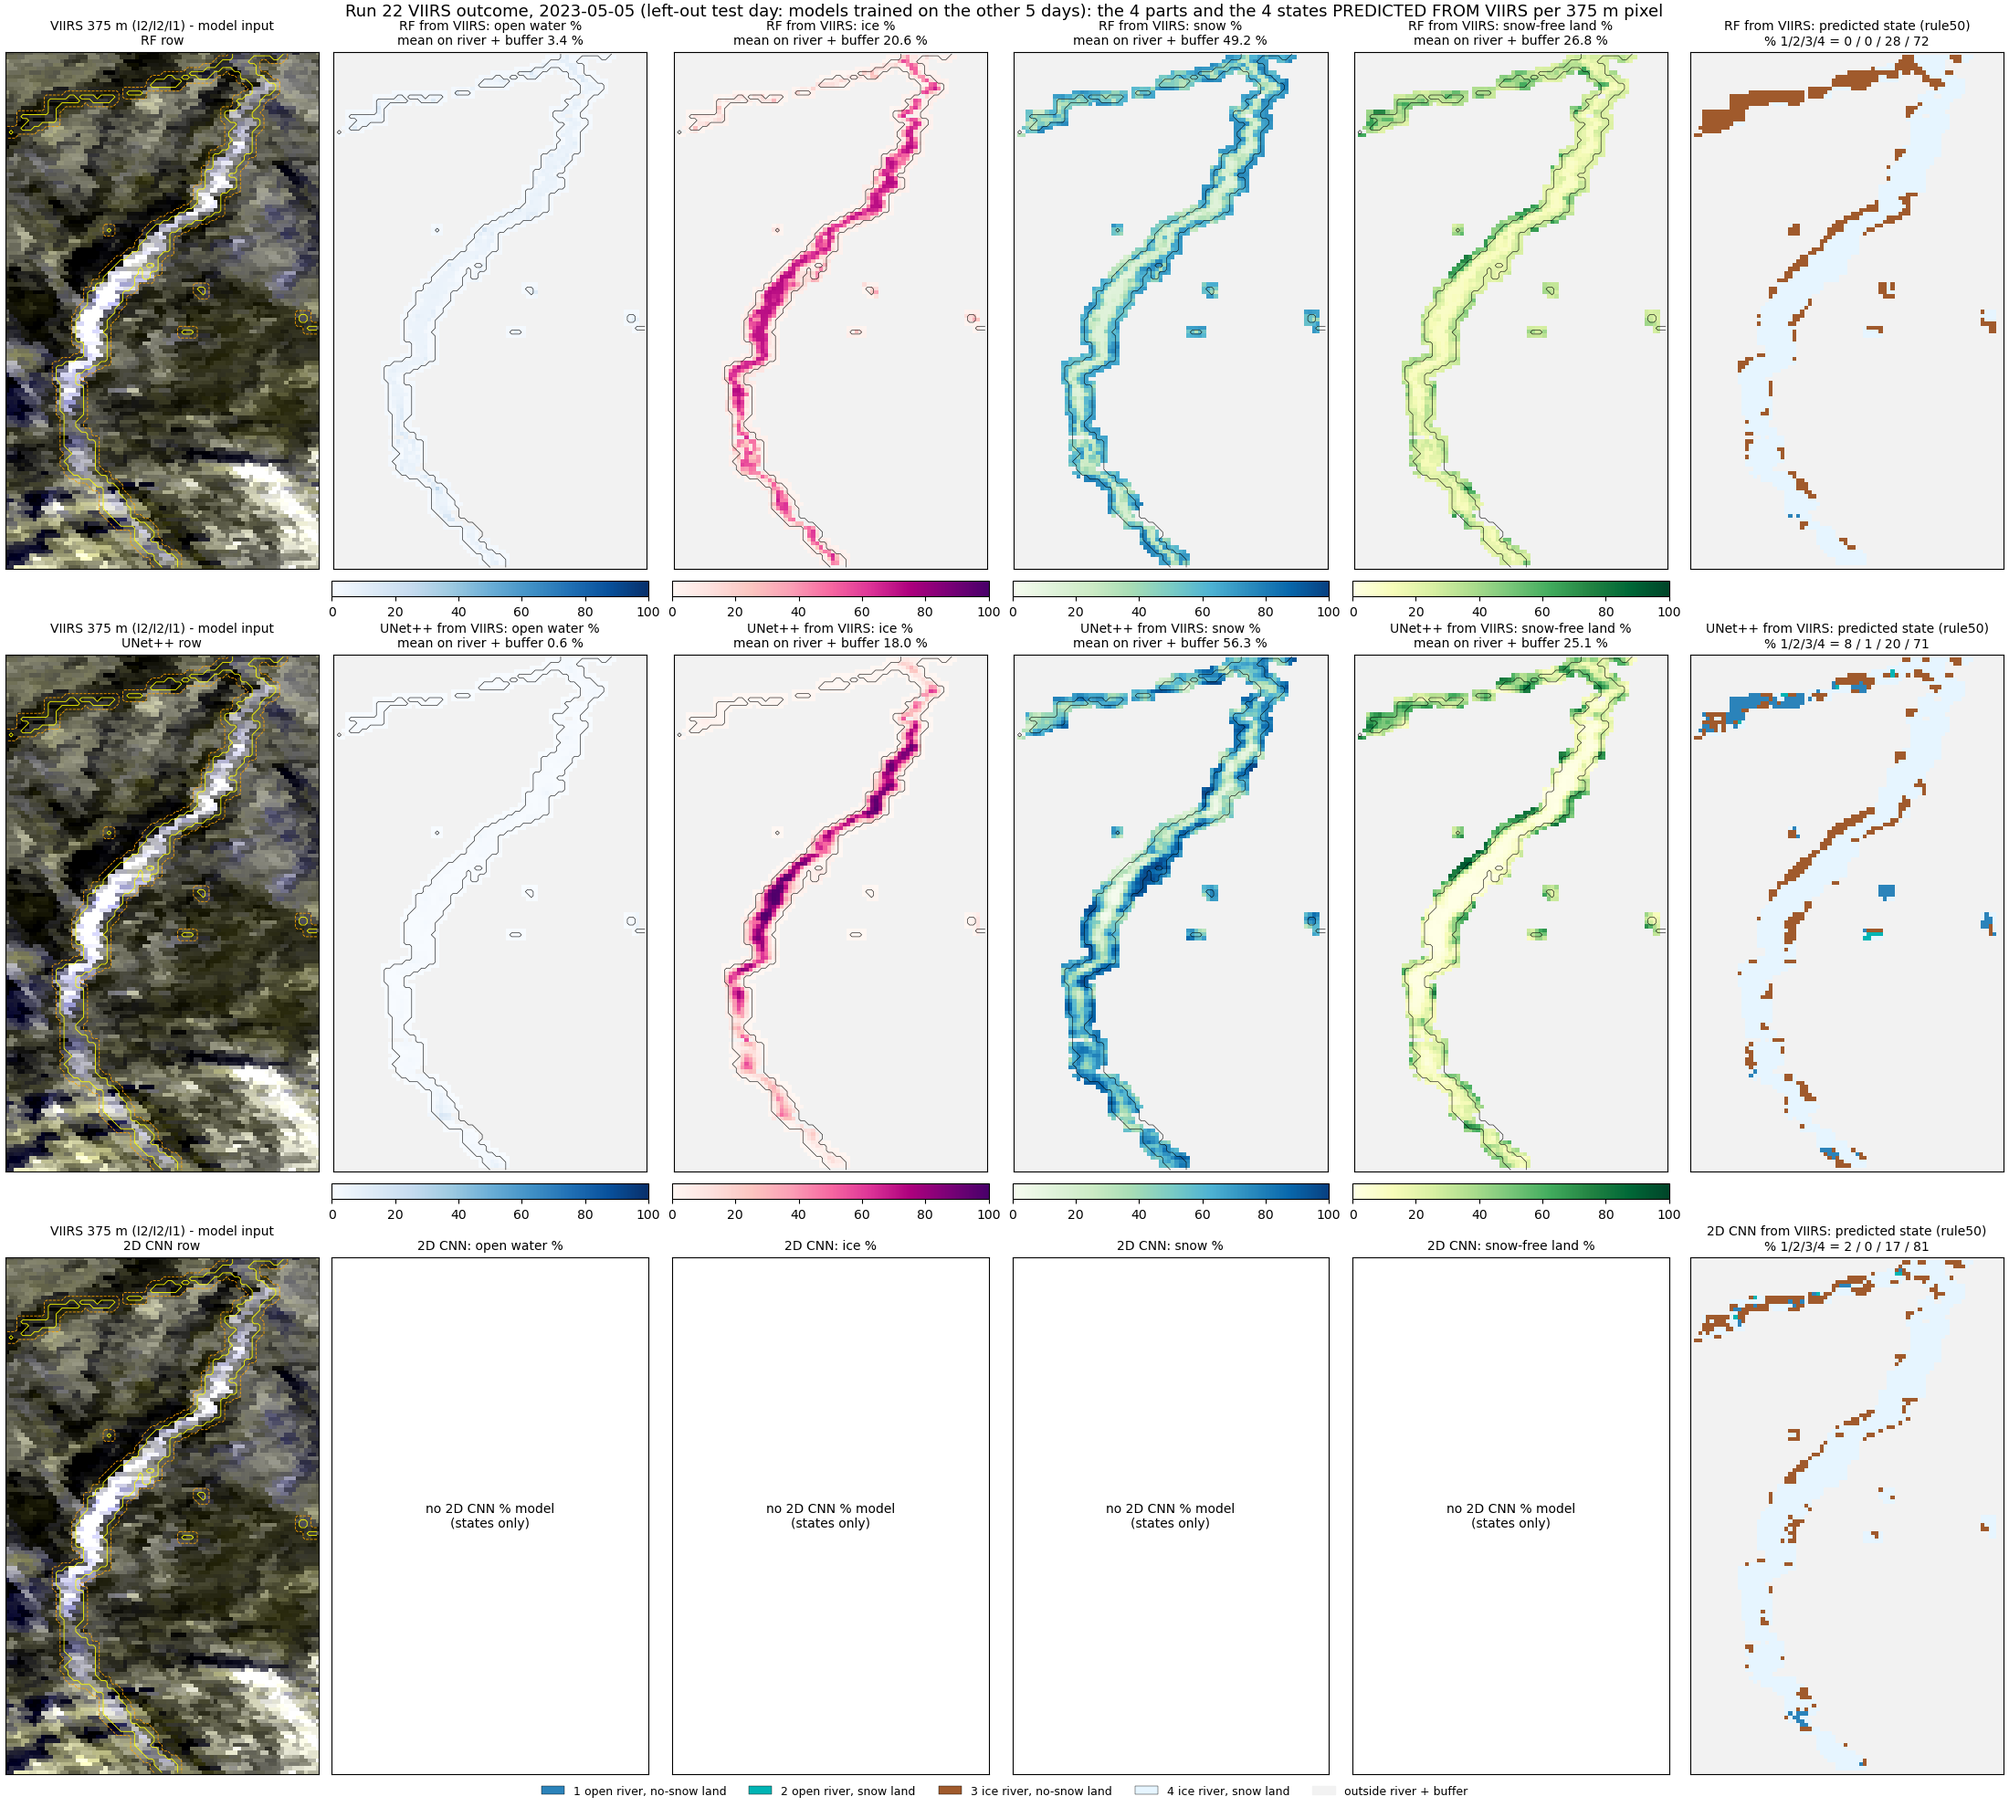
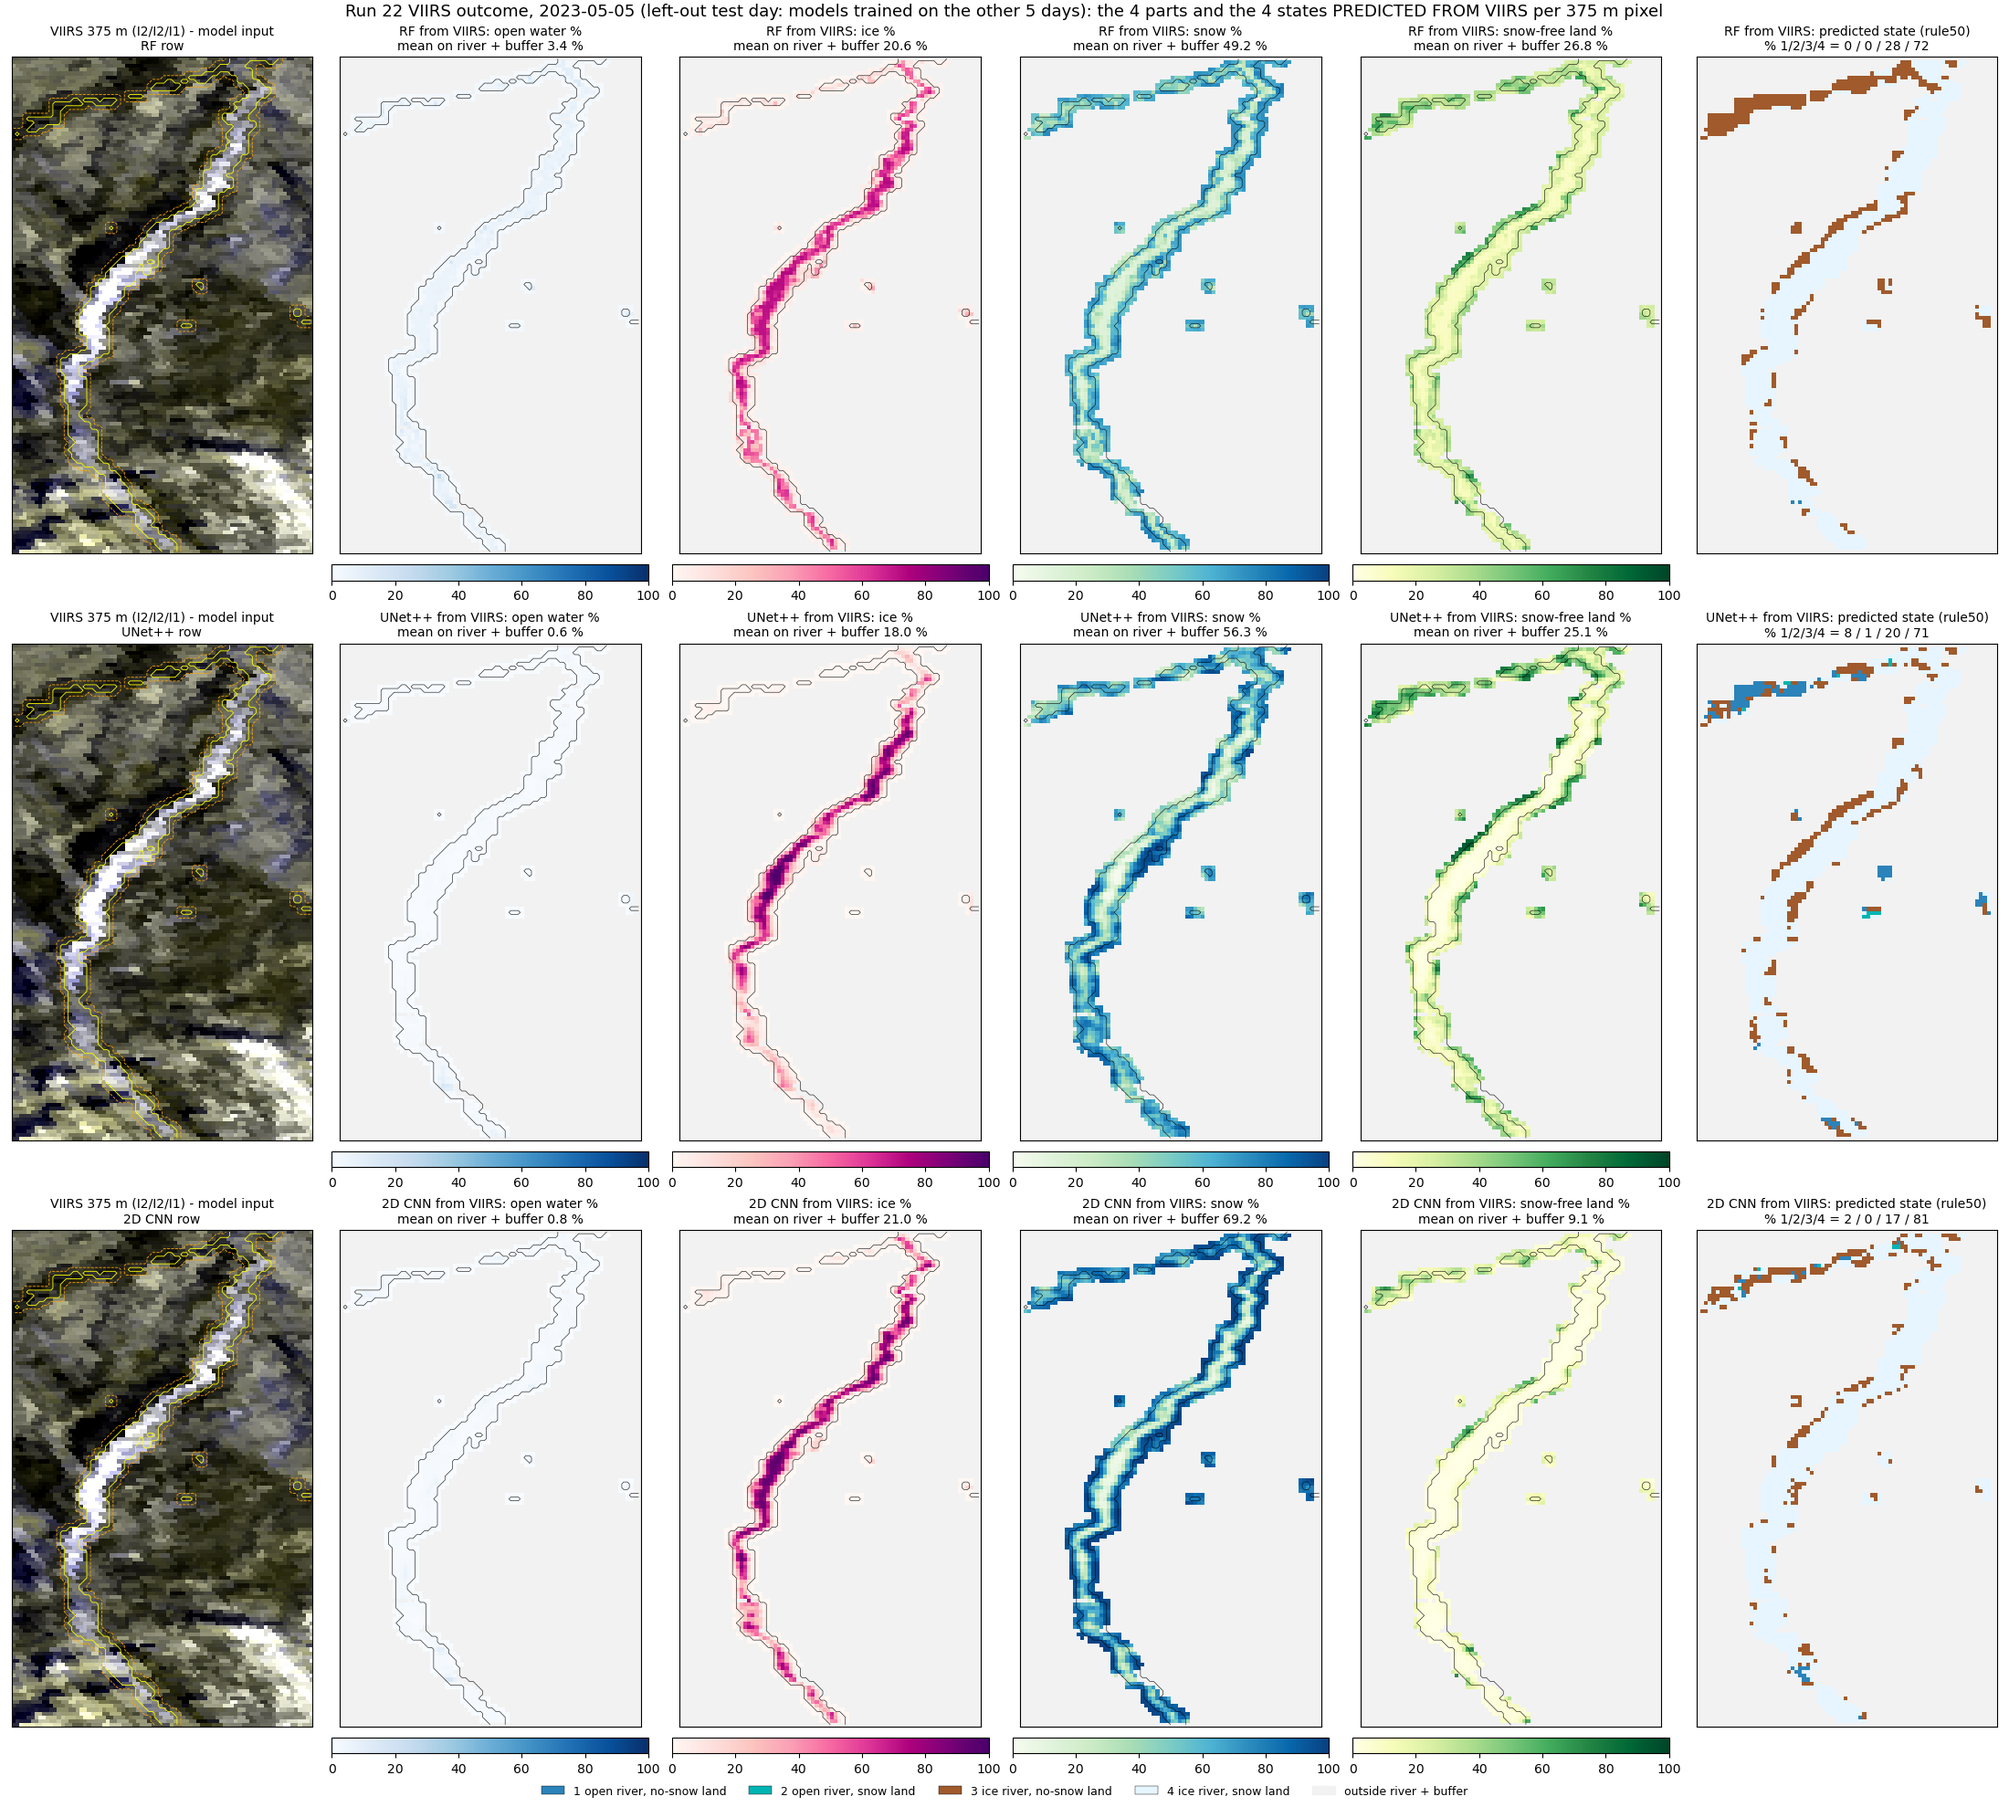
2D CNN % models (leave-one-date-out) for runs 19 and 22; outcome figures now show 2D CNN fractions

diff --git a/make_cnn_pct.py b/make_cnn_pct.py
@@ -1,0 +1,39 @@
+"""
+2D CNN % model (run 18 design: open water / ice / snow / snow-free land % per VIIRS pixel), leave-one-date-out over
+the 6 labelled dates, saved so the VIIRS outcome figures can show 2D CNN fractions next to RF and UNet++.
+Labels follow the run: box shares (run 19) or Gaussian shares (RIVER_LABELS=psf, run 22).
+
+Outputs: <run output>/pct_models/cnn2d/pct_<date>.tif (4 bands, %), metrics.json
+
+    RIVER_BUFFER=1 [RIVER_LABELS=psf] ~/venvs/river-ml/bin/python ~/Desktop/nenana_crops/daksh/make_cnn_pct.py
+"""
+
+import json
+
+import numpy as np
+
+import rf_viirs_unmix as U
+import viirs_river_states as R
+import viirs_states as V
+
+OUT = R.OUT / "pct_models" / "cnn2d"
+
+if __name__ == "__main__":
+    OUT.mkdir(parents=True, exist_ok=True)
+    shifts = {r["date"]: r["shift_fine_px"] for r in json.loads((U.OUT / "results.json").read_text())}
+    labelled = [d for d in U.viirs_dates()
+                if (U.RUN16 / f"pred_{d}.tif").exists() or (U.RUN16 / "new_dates" / d / "rf_pred.tif").exists()]
+    cache = {}
+    days = {d: V.load_day(d, shifts.get(d, [0, 0]), cache) for d in labelled}
+    res, tp, pp = {"per_date": {}}, [], []
+    for test in labelled:
+        model = V.fit_unet(days, [d for d in labelled if d != test], arch="cnn2d")
+        p = V.predict_unet(model, days[test])
+        g = days[test]["good"]
+        V.write_pct(OUT, days[test], p)
+        res["per_date"][test] = V.part_scores(days[test]["pct"][g], p[g])
+        tp.append(days[test]["pct"][g]); pp.append(p[g])
+        print(test, {k: round(v, 1) for k, v in res["per_date"][test]["mae_pp"].items()}, flush=True)
+    res["all"] = V.part_scores(np.concatenate(tp), np.concatenate(pp))
+    (OUT / "metrics.json").write_text(json.dumps(res, indent=1))
+    print("all", res["all"], "\nwrote", OUT)

diff --git a/make_viirs_outcome_figs.py b/make_viirs_outcome_figs.py
@@ -50,7 +50,7 @@ def predicted(date, labelled):
     out = {}
     for m, _ in MODELS:
         if labelled:
-            pct = read(PCT_LODO / m / f"pct_{date}.tif")
+            pct = read((R.OUT / "pct_models" / m if m == "cnn2d" else PCT_LODO / m) / f"pct_{date}.tif")
             st = read(R.OUT / m / "rule50" / f"class_{date}.tif")
         else:
             pct = read(R.OUT / "predict" / m / f"pct_{date}.tif")
